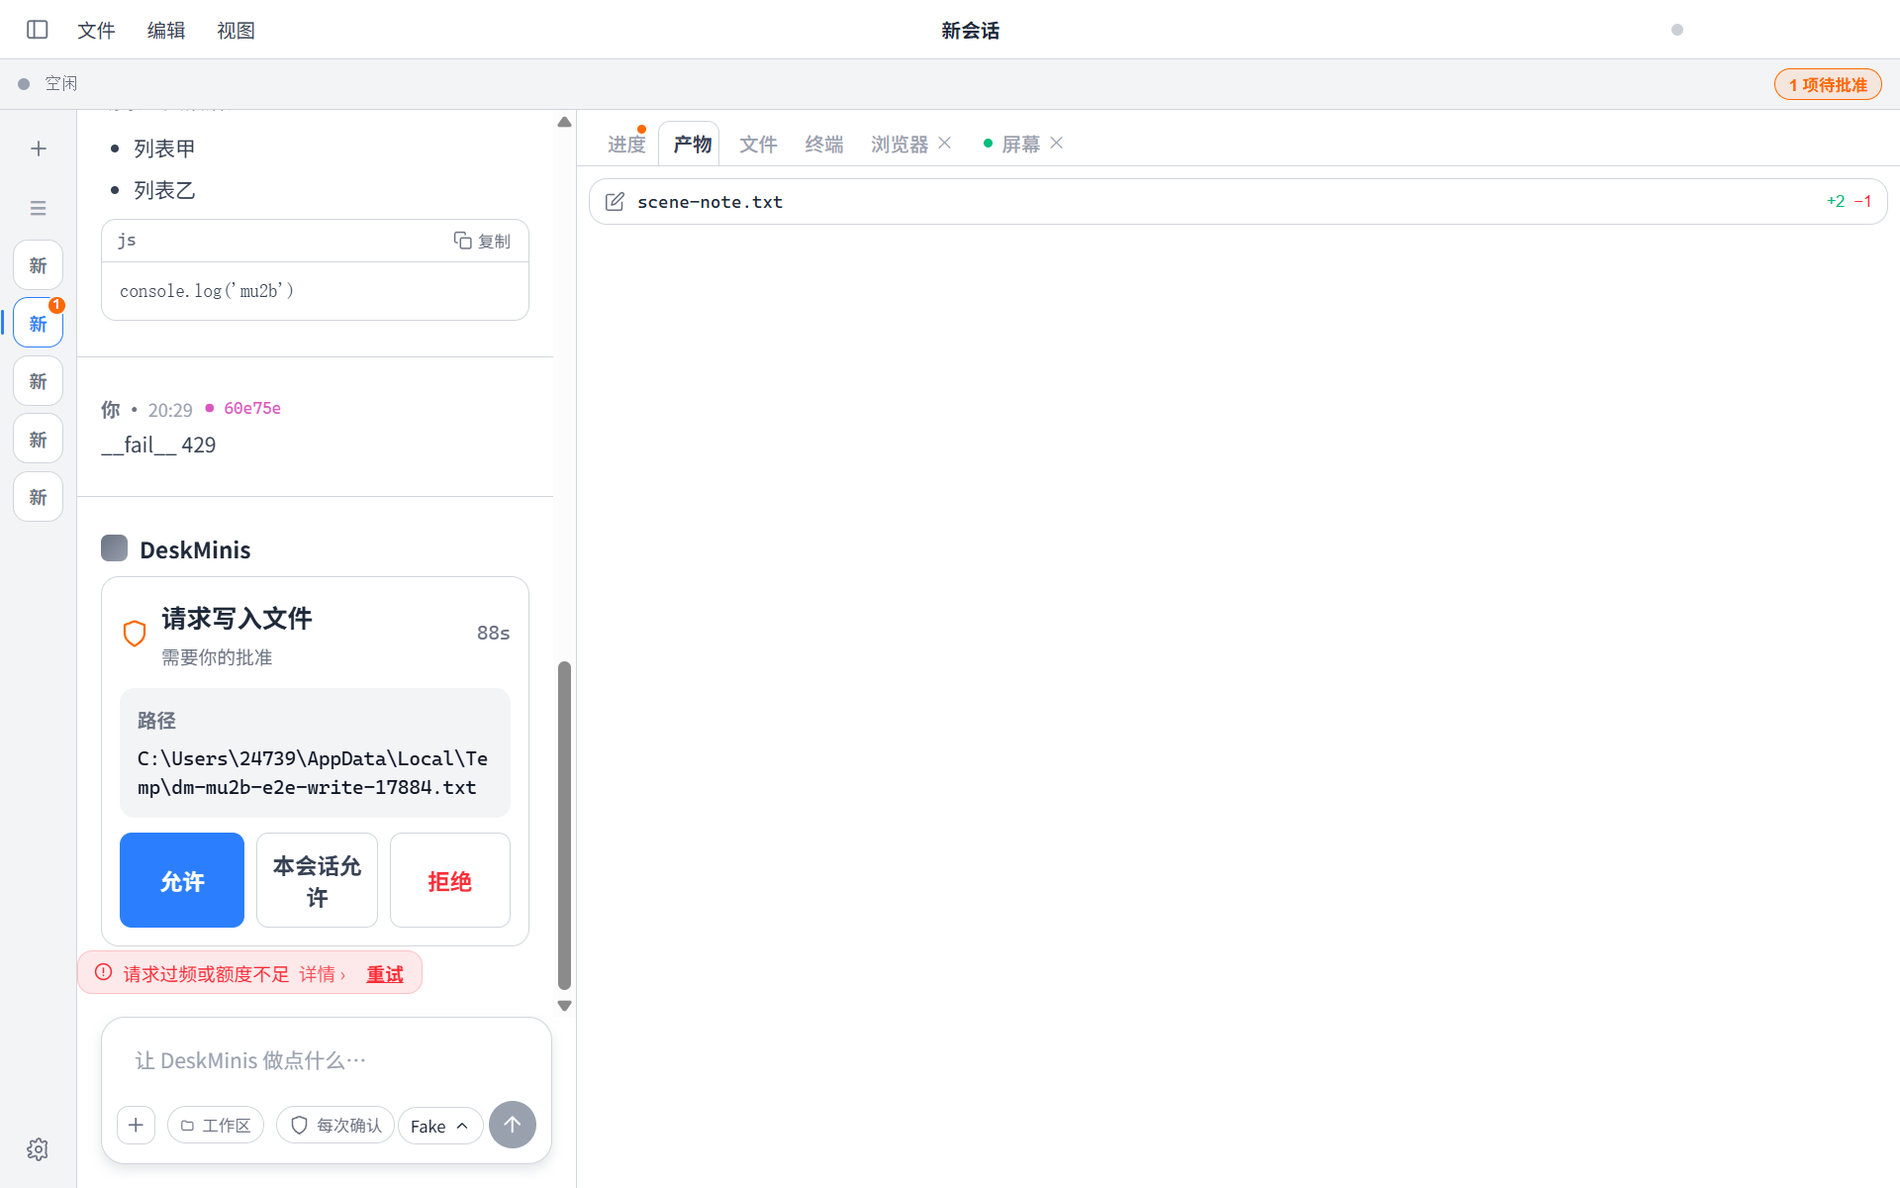
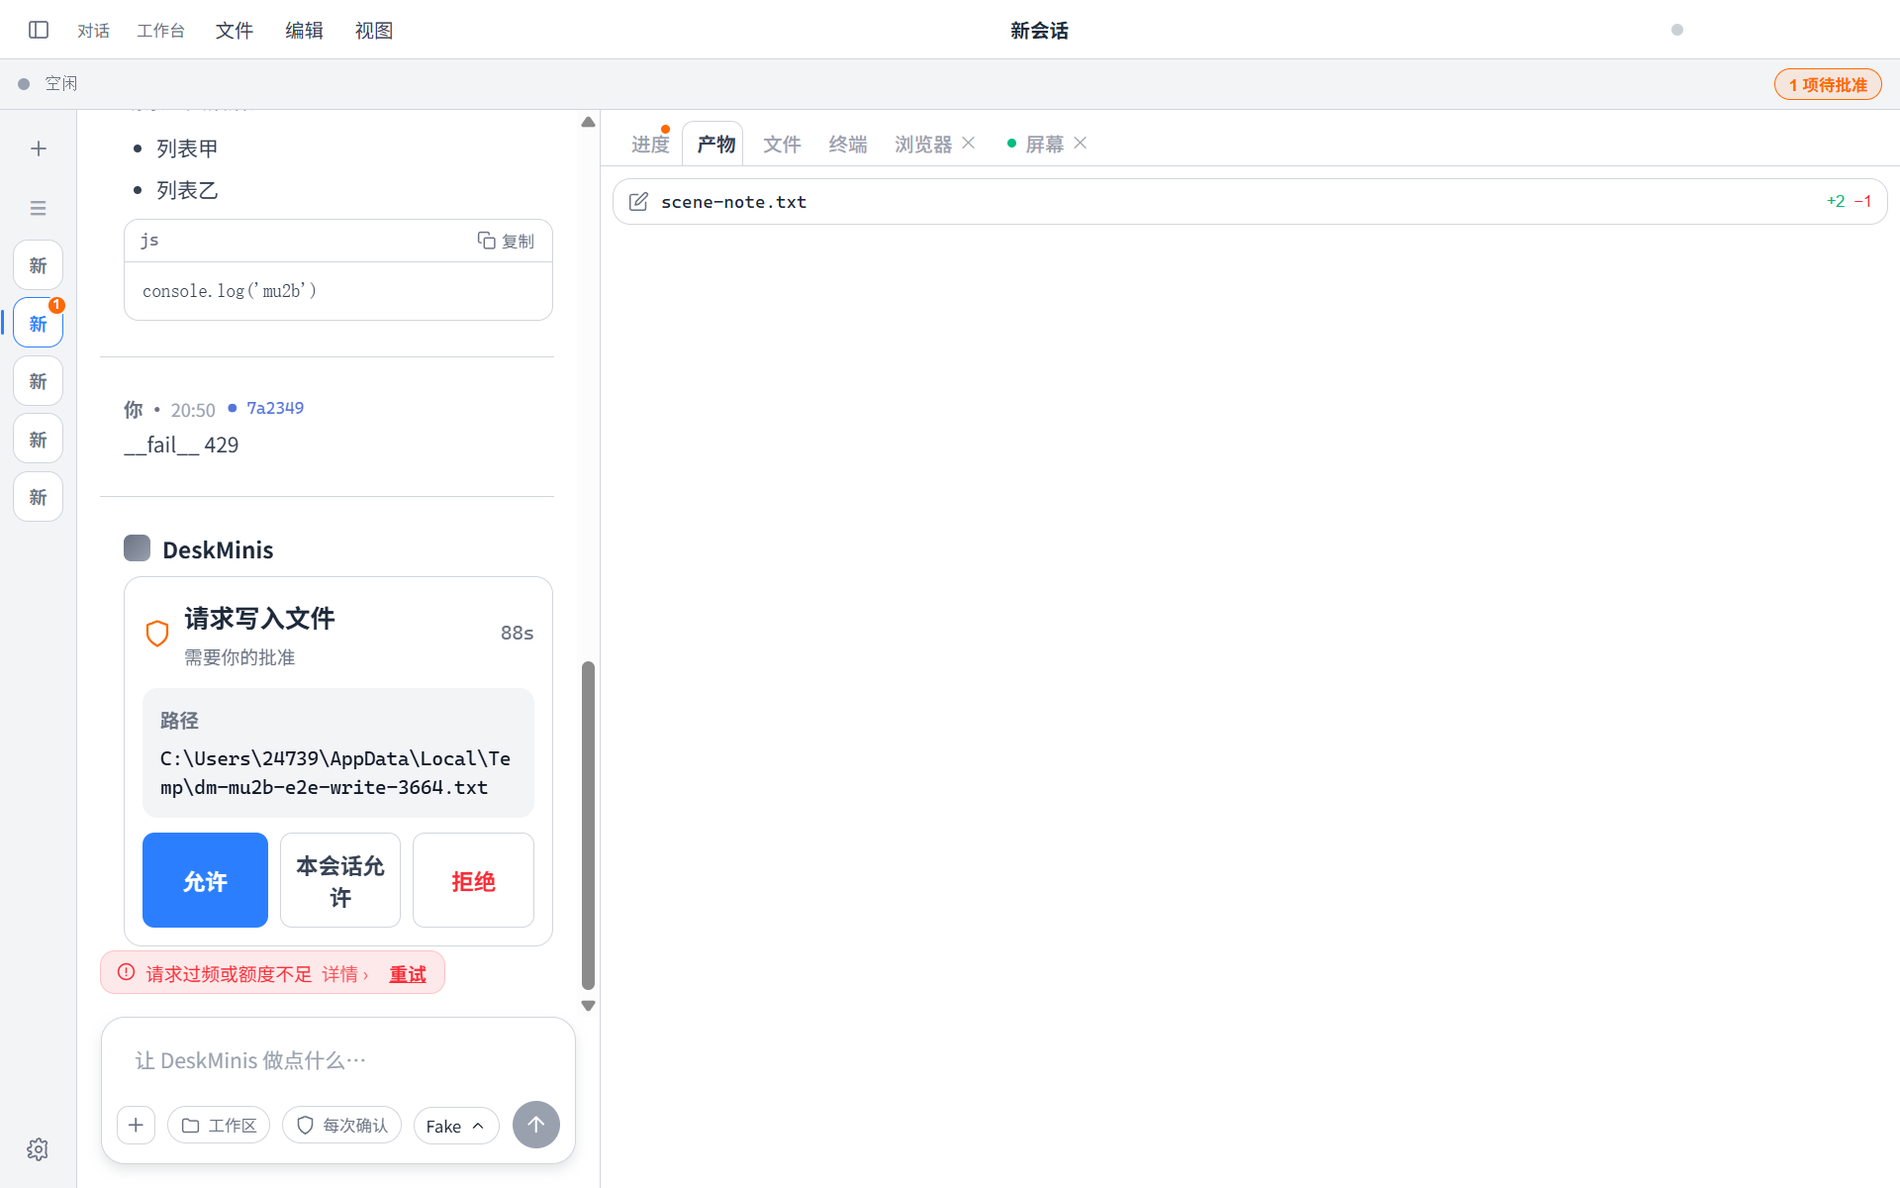
feat(mu5): 全屏下比例可调（上限改比例）+ 三个分区各自可隐藏
用户追加：全屏下模块比例无法调整；不能隐藏部分模块只留主要模块。两条都成立。

一、「比例无法调整」的真身：上限是绝对像素，不是比例
PANE_MAX=520 在 1280 屏是 40%（合理），到 2560 屏只剩 **20.3%**，拉不动。
新增 CHAT_MAX_RATIO=0.5，上限取「可用宽一半」与「可用宽 − 工作台下限」中更紧者；
PANE_MAX 退为只服务于不传可用宽的旧签名。2508 可用宽下上限 520 → **1254（49%）**。

二、「不能隐藏模块」的真身：入口只有一个，且对话列根本不能隐藏
改前标题栏只有「切换侧栏」一枚图标，工作台开关藏在视图菜单，对话列没有任何开关。
新增 chatOpen，三枚开关一并提到标题栏可见处且是**原生 button**
（旧 .tb-ico 是 div @click，Tab 走不到，属 MU3 遗留；其样式已随本轮删除）。
硬约束：对话列与工作台不得同时隐藏，否则留下空壳白屏；左区可整个隐掉（它是导航不是内容）。

三、连带必须处理的：列宽放开了，正文不能跟着拉长
拖到 1254px 后实测每行约 157 字符，远超 45–90 可读区间。
列宽是布局问题、行长是排版问题，不该绑在一起：容器随列宽伸展，正文按 760px 居中。
改后 95 / 79 / 29 字符（最宽 / 中段 / 最窄）。

两个只有量了才知道的坑：
1. .composer 只写 max-width 不生效——它是列向 flex 容器里的 flex item，
   margin:0 auto 的**自动外边距会关掉 cross 轴 stretch**，退回按内容收缩，宽列里只剩 339px。必须写 width。
2. 正文与输入卡左缘差 8px——正文在「减掉 15px 滚动条」的宽里居中、输入卡在完整宽里居中。
   scrollbar-gutter: stable both-edges 对称预留后精确对齐；顺带治好「消息撑出滚动条时整列横跳 15px」。

e2e 例 1 的「clamp 到 520」魔数改为**断言不变量**（对话列 ≤ 可用宽一半 且 工作台 ≥ 360）——
魔数会随窗口尺寸失效，不变量不会。视图菜单项「切换右侧面板」随词汇改名「切换工作台」，e2e 同步。

验证：npm test 1052 → **1056/1056**；typecheck 0；build 三产物；
e2e:mu2a 7/7；e2e:mu2b 8/8；src/minisd / src/main / src/preload 三目录仍零改动。
走查与实测记录写入计划 §13。

diff --git a/deskminis/tests/mu5-workbench-layout.test.ts b/deskminis/tests/mu5-workbench-layout.test.ts
@@ -14,7 +14,7 @@
 import { describe, it, expect } from 'vitest';
 import fs from 'node:fs';
 import path from 'node:path';
-import { clampPaneWidth, nextWidth, maxChatWidth, WORKBENCH_MIN } from '../src/renderer/src/lib/pane/drag';
+import { clampPaneWidth, nextWidth, maxChatWidth, WORKBENCH_MIN, CHAT_MAX_RATIO } from '../src/renderer/src/lib/pane/drag';
 import { fmtElapsed } from '../src/renderer/src/lib/time/elapsed';
 
 const root = path.resolve(__dirname, '..');
@@ -24,6 +24,8 @@ const app = read('src/renderer/src/App.vue');
 const chatView = read('src/renderer/src/components/ChatView.vue');
 const sessionList = read('src/renderer/src/components/SessionList.vue');
 const tokens = read('src/renderer/src/styles/tokens.css');
+const titleBar = read('src/renderer/src/components/TitleBar.vue');
+const PANE_MIN_FOR_TEST = 280;
 
 describe('MU5 三区骨架：图标轨 / 对话列定宽 / 工作台伸展（3 例）', () => {
   it('flex 关系反转：对话列改定宽 336px，工作台承担弹性 flex:1', () => {
@@ -87,9 +89,9 @@ describe('MU5 对话列不得把工作台饿死（真机多尺寸走查发现，
     // 而上限写死 520 → 工作台只剩 168px，标签条要横滚、内容挤成条状。
     // 布局不算「错乱」（无重叠、无页面横向滚动、三区之和恒等于视口），但不可用。
     expect(WORKBENCH_MIN).toBeGreaterThanOrEqual(320);
-    expect(maxChatWidth(2508)).toBe(520);        // 大屏：仍受 PANE_MAX 封顶，保住可读行长
-    expect(maxChatWidth(848)).toBe(848 - WORKBENCH_MIN); // 900 宽 + 图标轨 52 → 488（工作台下限优先于 PANE_MAX）
-    expect(maxChatWidth(688)).toBe(688 - WORKBENCH_MIN); // 900 宽 + 侧栏 212 → 上限收到 328
+    expect(maxChatWidth(2508)).toBe(1254);       // 2560 屏：可拖到一半，不再被 520 锁死在 20%
+    expect(maxChatWidth(848)).toBe(424);         // 900 宽 + 图标轨 52 → 比例规则给 424（两边对半）
+    expect(maxChatWidth(688)).toBe(688 - WORKBENCH_MIN); // 900 宽 + 侧栏 212 → 328（此处工作台下限比比例更紧）
     // 可用宽极小时不得让区间反转（上限跌破下限）
     expect(maxChatWidth(300)).toBe(280);
     expect(maxChatWidth(0)).toBe(280);
@@ -120,6 +122,55 @@ describe('MU5 持久化键换名，防旧值被静默改判语义（1 例）', (
     // 精确到**调用形态**而非裸子串：源码注释里写明「旧键 deskminis.rightW 为何要换」
     // 是有价值的文档，不该被守卫误伤。守卫要拦的是「代码还在读写旧键」。
     expect(app).not.toMatch(/localStorage\.(get|set)Item\(\s*'deskminis\.rightW'/);
+  });
+});
+
+describe('MU5 全屏下比例可调 + 分区可隐藏（用户 2026-08-10 追加，3 例）', () => {
+  it('对话列上限按**比例**而非绝对像素——大屏不再被 520 锁死', () => {
+    // 缺陷现场：520 在 1280 屏上是 40%（合理），到 2560 屏只剩 20.3%，
+    // 用户在全屏下想把对话列拉宽根本拉不动——「模块比例无法调整」的真身。
+    expect(CHAT_MAX_RATIO).toBe(0.5);
+    // 同一条规则在各尺寸下都给出「不超过一半」且「工作台不饿死」
+    for (const av of [688, 848, 1228, 2508, 3800]) {
+      const hi = maxChatWidth(av);
+      expect(hi).toBeLessThanOrEqual(Math.floor(av * CHAT_MAX_RATIO));
+      if (av - WORKBENCH_MIN >= PANE_MIN_FOR_TEST) expect(av - hi).toBeGreaterThanOrEqual(WORKBENCH_MIN);
+    }
+    // 大屏确实放开了：2560 - 52 = 2508 可用 → 上限 1254，而不是 520
+    expect(maxChatWidth(2508)).toBeGreaterThan(520);
+  });
+
+  it('对话列可隐藏，且对话列与工作台不得同时隐藏（至少留一个主区）', () => {
+    expect(app).toContain('chatOpen');
+    expect(app).toContain('toggleChat');
+    expect(app).toContain('toggleWorkbench');
+    // 守卫「不能全隐」的那句判断必须在，否则会出现三区皆空的白屏
+    expect(app).toMatch(/chatOpen\.value\s*&&\s*!workbenchOpen\.value/);
+    expect(app).toMatch(/workbenchOpen\.value\s*&&\s*!chatOpen\.value/);
+    expect(app).toContain('v-show="chatOpen"');
+  });
+
+  it('三个分区开关提到标题栏可见处，且都是原生 button（不再只藏在「视图」菜单里）', () => {
+    // 现状：标题栏只有一个「切换侧栏」图标，工作台开关藏在视图菜单，对话列根本不能隐藏。
+    expect(titleBar).toContain("emit('toggle-sidebar')"); // 既有锚保持
+    expect(titleBar).toContain("emit('toggle-chat')");
+    expect(titleBar).toContain("emit('toggle-right')");
+    expect(titleBar).toMatch(/<button[^>]*class="tb-seg"/);
+    expect(titleBar).toMatch(/\.tb-seg:focus-visible/);
+  });
+});
+
+describe('MU5 列宽放开后正文仍须可读（1 例）', () => {
+  it('正文与输入卡按可读宽封顶并居中；输入卡必须写 width 而非只写 max-width', () => {
+    // 列宽是布局问题，行长是排版问题。对话列现在可拖到可用宽的一半（2560 屏上 1254px），
+    // 若正文跟着拉长，实测每行约 157 字符——远超 45–90 的可读区间。
+    expect(chatView).toMatch(/\.turn\s*\{[^}]*max-width:\s*792px/);
+    expect(chatView).toMatch(/\.turn\s*\{[^}]*margin-inline:\s*auto/);
+    // 输入卡是**列向 flex 容器里的 flex item**，auto 外边距会关掉 cross 轴 stretch，
+    // 只写 max-width 的话它会退回按内容收缩（实测宽列里只剩 339px）。必须写 width。
+    expect(chatView).toMatch(/\.composer\s*\{[^}]*width:\s*min\(792px/);
+    // 滚动条对称预留：否则正文在「减掉滚动条」的宽里居中、输入卡在完整宽里居中，左缘差 8px
+    expect(chatView).toMatch(/scrollbar-gutter:\s*stable both-edges/);
   });
 });
 

diff --git a/deskminis/src/renderer/src/components/TitleBar.vue b/deskminis/src/renderer/src/components/TitleBar.vue
@@ -10,6 +10,7 @@ import Icon from './Icon.vue';
 defineProps<{ title: string }>();
 const emit = defineEmits<{
   (e: 'toggle-sidebar'): void;
+  (e: 'toggle-chat'): void;
   (e: 'toggle-right'): void;
   (e: 'toggle-theme'): void;
 }>();
@@ -47,7 +48,8 @@ const menus: Menu[] = [
   ] },
   { id: 'view', label: '视图', items: [
     { label: '切换侧栏', kbd: 'Ctrl+B', act: 'sidebar' },
-    { label: '切换右侧面板', act: 'right' },
+    { label: '切换对话列', act: 'chat' },
+    { label: '切换工作台', act: 'right' },
     { sep: true },
     { label: '明暗模式', act: 'theme' },
     { sep: true },
@@ -66,6 +68,7 @@ function run(item: MenuItem): void {
     case 'new': void chat.newSession(); break;
     case 'quit': window.close(); break;
     case 'sidebar': emit('toggle-sidebar'); break;
+    case 'chat': emit('toggle-chat'); break;
     case 'right': emit('toggle-right'); break;
     case 'theme': emit('toggle-theme'); break;
     case 'reload': window.location.reload(); break;
@@ -89,7 +92,14 @@ onBeforeUnmount(() => { document.removeEventListener('click', closeAll); window.
 
 <template>
   <div class="titlebar">
-    <div class="tb-ico" title="切换侧栏" @click="emit('toggle-sidebar')"><Icon name="sidebar" :size="17" /></div>
+    <!-- 三个分区开关。MU5 前只有「切换侧栏」一枚图标，工作台开关藏在「视图」菜单里，
+         对话列根本不能隐藏——想「只留主要模块」做不到。三枚一并提到可见处，
+         且用原生 button（旧的 .tb-ico 是 div @click，Tab 走不到，属 MU3 遗留；其样式已随之删除）。 -->
+    <div class="tb-segs">
+      <button class="tb-seg" type="button" title="切换侧栏（Ctrl+B）" @click="emit('toggle-sidebar')"><Icon name="sidebar" :size="16" /></button>
+      <button class="tb-seg" type="button" title="切换对话列" @click="emit('toggle-chat')">对话</button>
+      <button class="tb-seg" type="button" title="切换工作台" @click="emit('toggle-right')">工作台</button>
+    </div>
     <div class="menubar" @click.stop>
       <div
         v-for="mn in menus" :key="mn.id"
@@ -129,14 +139,18 @@ onBeforeUnmount(() => { document.removeEventListener('click', closeAll); window.
      且未来任何滤镜/transform 重新引入层叠上下文时陷阱不复发；保留成本为零。 */
   position: relative; z-index: 50;
 }
-.tb-ico, .menubar, .mi { -webkit-app-region: no-drag; }
-.tb-ico {
-  width: 30px; height: 30px; display: flex; align-items: center; justify-content: center;
-  border-radius: var(--r-control); color: var(--label-secondary); cursor: pointer;
+.menubar, .mi, .tb-segs { -webkit-app-region: no-drag; }
+/* 分区开关：常驻可见，一眼看出哪些区能收起 */
+.tb-segs { display: flex; align-items: center; gap: 2px; flex: 0 0 auto; }
+.tb-seg {
+  display: inline-flex; align-items: center; justify-content: center; gap: 4px;
+  height: 26px; padding: 0 8px; border: none; border-radius: var(--r-control);
+  background: none; color: var(--label-secondary); cursor: pointer;
+  font-size: var(--fs-micro); white-space: nowrap;
 }
-.tb-ico:hover { background: var(--fill-quaternary); }
-/* MU3 §2-5 焦点环 */
-.tb-ico:focus-visible { outline: 2px solid var(--ring); outline-offset: 1px; }
+.tb-seg:hover { background: var(--fill-quaternary); color: var(--label); }
+.tb-seg:focus-visible { outline: 2px solid var(--ring); outline-offset: -1px; }
+.tb-seg :deep(svg) { stroke: var(--label-secondary); }
 .menubar { display: flex; gap: 1px; }
 .mi {
   position: relative; font-size: 13px; padding: 5px 10px; border-radius: var(--r-control);

diff --git a/deskminis/src/renderer/src/components/ChatView.vue b/deskminis/src/renderer/src/components/ChatView.vue
@@ -432,7 +432,10 @@ function onSlashTab(e: KeyboardEvent): void {
 
 <style scoped>
 .pane-c { flex: 1; display: flex; flex-direction: column; min-width: 0; background: var(--bg); overflow: hidden; position: relative; }
-.stream { flex: 1; overflow: auto; padding: 12px 0; }
+/* scrollbar-gutter 对称预留：滚动条 15px 会让正文在「减掉滚动条」的宽里居中，
+   而输入卡在完整宽里居中，两者左缘差 8px（实测）。both-edges 让两边各留一份，
+   正文与输入卡就精确对齐；顺带解决另一个毛病——消息多到撑出滚动条时整列文字横跳 15px。 */
+.stream { flex: 1; overflow: auto; padding: 12px 0; scrollbar-gutter: stable both-edges; }
 
 /* 解除跟随后右下浮出的「回到底部」小圆钮（设计 §2.4） */
 .back-bottom {
@@ -448,7 +451,14 @@ function onSlashTab(e: KeyboardEvent): void {
 .back-bottom:focus-visible { outline: 2px solid var(--ring); outline-offset: 1px; }
 
 /* 回合容器（设计 v2 §2.1）：回合间 1px 分隔线 + 24px 间距，回合内块间 8px */
-.turn { padding: 0 16px; display: flex; flex-direction: column; gap: 8px; }
+/* MU5：对话列现在可以拖到可用宽的一半（2560 屏上到 1254px），但**正文不该跟着拉长**——
+   实测 1254px 时每行约 157 字符，远超 45–90 的可读区间。
+   列宽是布局问题，行长是排版问题，两件事：容器随列宽伸展，正文按可读宽度居中。
+   792 = 760 可读宽 + 左右 16px 内边距（box-sizing: border-box）。 */
+.turn {
+  padding: 0 16px; display: flex; flex-direction: column; gap: 8px;
+  max-width: 792px; margin-inline: auto; width: 100%;
+}
 .turn + .turn { border-top: .5px solid var(--separator); margin-top: var(--sp-6); padding-top: var(--sp-6); }
 
 /* 用户消息：无气泡，左对齐标签行「你 · HH:MM」+ hover 复制钮（Codex 式回合归属） */
@@ -482,7 +492,12 @@ function onSlashTab(e: KeyboardEvent): void {
 
 /* 输入区：浮动容器（MU3：材质退场改实底） */
 .composer {
-  margin: 0 16px 16px; border-radius: var(--r-input); background: var(--surface-1);
+  /* 与正文同宽同轴：窄列时靠 100% - 32px 保住 16px 边距，宽列时封顶 792 并居中。
+     必须写 width 而不是只写 max-width——.composer 是列向 flex 容器里的 flex item，
+     **auto 外边距会关掉 cross 轴的 stretch**，只给 max-width 的话它会退回按内容收缩
+     （实测宽列里只剩 339px）。显式 width 才拿得到该有的宽度。 */
+  width: min(792px, 100% - 32px); margin: 0 auto 16px;
+  border-radius: var(--r-input); background: var(--surface-1);
   border: .5px solid var(--separator);
   /* MU5：卡片浮起（来源 AionUi 输入区）——此前是平贴的容器，与对话流没有层次差 */
   box-shadow: var(--shadow-fab);

diff --git a/deskminis/src/renderer/src/App.vue b/deskminis/src/renderer/src/App.vue
@@ -36,7 +36,18 @@ const chat = useChat();
  *  展开时**挤压**对话列而非浮层覆盖——浮层会遮住正在读的内容。 */
 const railOpen = ref(true);
 const sidebarExpanded = ref(false);
+/** 三个分区各自可隐藏，但**对话列与工作台不能同时隐藏**——那会留下一个空壳白屏。
+ *  左区可以整个隐掉（它是导航，不是内容）。 */
+const chatOpen = ref(true);
 const workbenchOpen = ref(true);
+function toggleChat(): void {
+  if (chatOpen.value && !workbenchOpen.value) return; // 已是「只剩对话列」，不许再关
+  chatOpen.value = !chatOpen.value;
+}
+function toggleWorkbench(): void {
+  if (workbenchOpen.value && !chatOpen.value) return; // 已是「只剩工作台」，不许再关
+  workbenchOpen.value = !workbenchOpen.value;
+}
 /** MU2b Task 5：settingsOpen 语义改为设置模态开关（原右栏 settings 分支退场） */
 const settingsOpen = ref(false);
 /** MU2b Task 7：配对管理面模态开关（左栏「设备」/ 设置模态「设备与同步」两入口） */
@@ -217,7 +228,7 @@ onMounted(() => {
   // MU2b Task 5：托盘菜单死通道接通（preload 白名单两订阅；main 侧零改动）
   const bridge = (window as { deskminis?: { onMenuOpenSettings?: (cb: () => void) => void; onMenuToggleRight?: (cb: () => void) => void } }).deskminis;
   bridge?.onMenuOpenSettings?.(() => { settingsOpen.value = true; });
-  bridge?.onMenuToggleRight?.(() => { workbenchOpen.value = !workbenchOpen.value; });
+  bridge?.onMenuToggleRight?.(() => { toggleWorkbench(); });
   taskTick = setInterval(() => { nowMs.value = Date.now(); }, 1000);
   window.addEventListener('resize', onResize);
   window.addEventListener('keydown', onGlobalKey);
@@ -235,7 +246,8 @@ onBeforeUnmount(() => {
     <TitleBar
       :title="activeTitle"
       @toggle-sidebar="railOpen = !railOpen"
-      @toggle-right="workbenchOpen = !workbenchOpen"
+      @toggle-chat="toggleChat"
+      @toggle-right="toggleWorkbench"
       @toggle-theme="cycleTheme"
     />
     <!-- 任务条：状态点 · 当前动作/步数/耗时/上下文水位 · 待批准计数（常驻，不随标签切换消失） -->
@@ -267,7 +279,7 @@ onBeforeUnmount(() => {
       <aside v-show="railOpen && sidebarExpanded" class="pane-l">
         <SessionList @collapse="sidebarExpanded = false" />
       </aside>
-      <main class="pane-chat" :style="workbenchOpen ? { width: chatW + 'px', flex: '0 0 ' + chatW + 'px' } : {}">
+      <main v-show="chatOpen" class="pane-chat" :style="workbenchOpen ? { width: chatW + 'px', flex: '0 0 ' + chatW + 'px' } : {}">
         <ChatView />
         <div class="cdrag" @mousedown="startCDrag"></div>
       </main>

diff --git a/deskminis/src/renderer/src/lib/pane/drag.ts b/deskminis/src/renderer/src/lib/pane/drag.ts
@@ -13,6 +13,8 @@
  *  故上限改为随可用宽收缩，保证工作台不低于 WORKBENCH_MIN。 */
 
 export const PANE_MIN = 280;
+/** 绝对上限，仅用于**不传可用宽**的旧签名（保持 MU2b 起的既有契约不变）。
+ *  传了可用宽就走 maxChatWidth 的比例规则，不再参与。 */
 export const PANE_MAX = 520;
 
 /** 工作台的最小可用宽。低于此值标签条放不下、内容挤成条状，等于把主区饿死。
@@ -24,11 +26,20 @@ export const PANE_MAX = 520;
  *  （动态开出的文件标签超出后照常横滚——那是多开本身的代价，可以接受。） */
 export const WORKBENCH_MIN = 360;
 
+/** 对话列最多占可用宽的比例。
+ *
+ *  为什么不用绝对像素：`PANE_MAX` 520 在 1280 屏上是 40%（合理），到 2560 屏只剩 20.3%——
+ *  用户全屏时想把对话列拉宽根本拉不动，这正是「模块比例无法调整」的真身。
+ *  换成比例后，同一条规则在任何尺寸下都给出「最多一半」，大屏自然放开。 */
+export const CHAT_MAX_RATIO = 0.5;
+
 /** 给定可用宽（视口宽 − 左区宽），求对话列的有效上限。
- *  两头都夹住：既不超过 PANE_MAX（保住可读行长，大屏上对话列不该无限变宽），
- *  也不让工作台跌破 WORKBENCH_MIN；可用宽极小时退回 PANE_MIN，防止区间反转。 */
+ *  两条约束取更紧的那条：① 不超过可用宽的一半；② 不让工作台跌破 WORKBENCH_MIN。
+ *  可用宽极小时退回 PANE_MIN，防止区间反转。 */
 export function maxChatWidth(available: number): number {
-  return Math.max(PANE_MIN, Math.min(PANE_MAX, available - WORKBENCH_MIN));
+  const byRatio = Math.floor(available * CHAT_MAX_RATIO);
+  const byFloor = available - WORKBENCH_MIN;
+  return Math.max(PANE_MIN, Math.min(byRatio, byFloor));
 }
 
 /** 钳制到 [PANE_MIN, 有效上限]。
